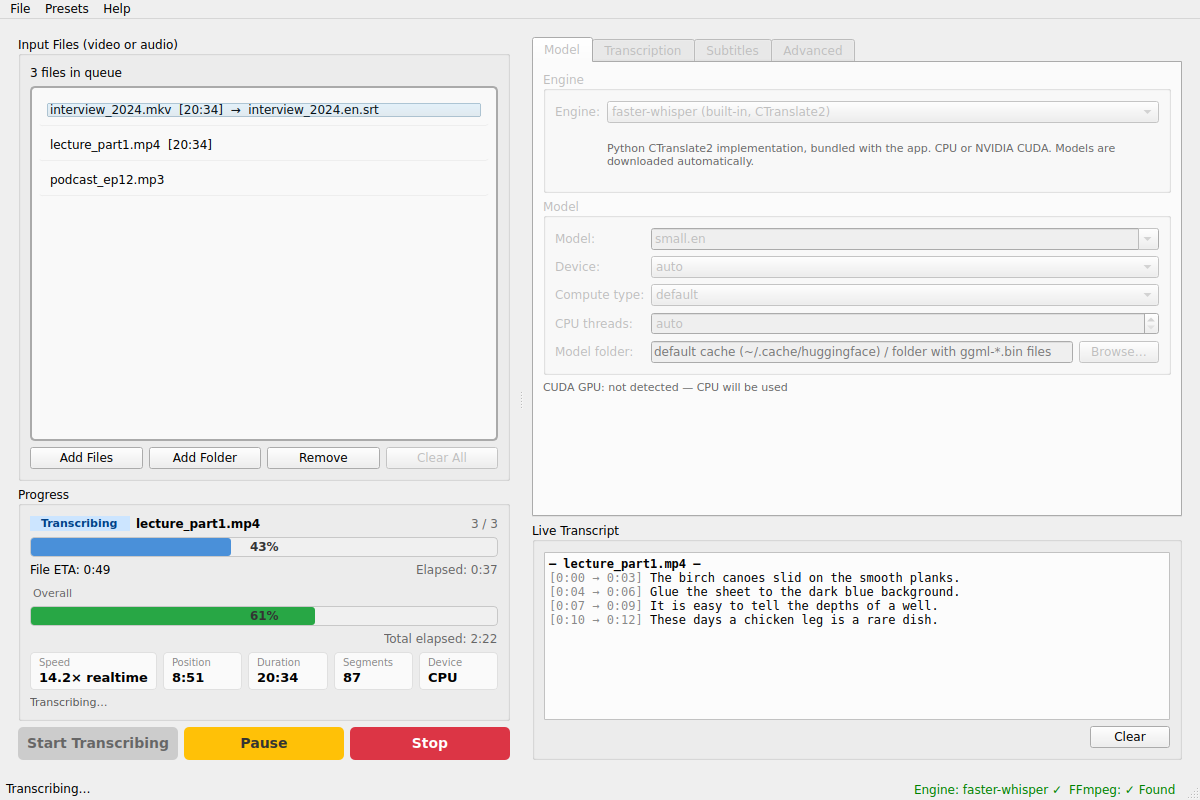
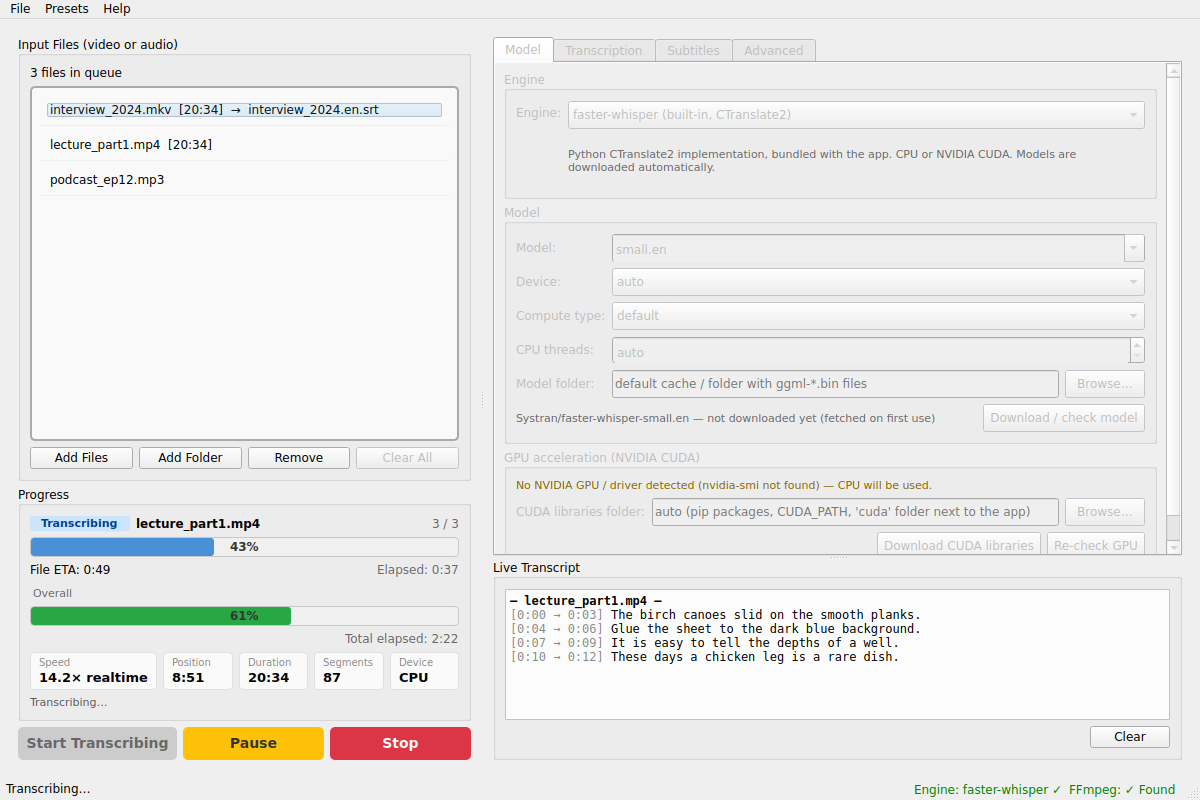
1.2: layout fits small / scaled screens — min window 820x560, scrollable tabs, fields shrink with the window, draggable transcript pane

diff --git a/modules/ui_manager.py b/modules/ui_manager.py
@@ -9,7 +9,7 @@ from PySide6.QtWidgets import (QWidget, QVBoxLayout, QHBoxLayout, QLabel, QCheck
                                QLineEdit, QFileDialog, QGroupBox, QListWidget, QProgressBar, QSplitter,
                                QListWidgetItem, QTabWidget, QSpinBox, QDoubleSpinBox, QComboBox,
                                QGridLayout, QFrame, QSizePolicy, QMessageBox, QPlainTextEdit, QTextEdit,
-                               QFormLayout)
+                               QFormLayout, QScrollArea)
 from PySide6.QtCore import Qt, Signal, QSettings
 from PySide6.QtGui import QAction, QDragEnterEvent, QDropEvent, QColor, QBrush, QDesktopServices
 from PySide6.QtCore import QUrl
@@ -153,7 +153,9 @@ class UIManager(QWidget):
         main_layout.addWidget(splitter)
         splitter.addWidget(self._create_left_panel())
         splitter.addWidget(self._create_right_panel())
-        splitter.setSizes([520, 680])
+        splitter.setStretchFactor(0, 2)
+        splitter.setStretchFactor(1, 3)
+        splitter.setSizes([480, 720])
 
     # -- left: queue + progress + buttons ----------------------------------
     def _create_left_panel(self):
@@ -288,11 +290,19 @@ class UIManager(QWidget):
         panel = QWidget()
         layout = QVBoxLayout(panel)
         self.tabs = QTabWidget()
-        self.tabs.addTab(self._create_model_tab(), "Model")
-        self.tabs.addTab(self._create_transcription_tab(), "Transcription")
-        self.tabs.addTab(self._create_subtitles_tab(), "Subtitles")
-        self.tabs.addTab(self._create_advanced_tab(), "Advanced")
-        layout.addWidget(self.tabs, 3)
+        for widget, title in ((self._create_model_tab(), "Model"),
+                              (self._create_transcription_tab(), "Transcription"),
+                              (self._create_subtitles_tab(), "Subtitles"),
+                              (self._create_advanced_tab(), "Advanced")):
+            scroll = QScrollArea()
+            scroll.setWidgetResizable(True)
+            scroll.setFrameShape(QFrame.Shape.NoFrame)
+            scroll.setHorizontalScrollBarPolicy(Qt.ScrollBarPolicy.ScrollBarAlwaysOff)
+            scroll.setWidget(widget)
+            self.tabs.addTab(scroll, title)
+        self._fix_field_sizing()
+        vsplit = QSplitter(Qt.Orientation.Vertical)
+        vsplit.addWidget(self.tabs)
 
         transcript_group = QGroupBox("Live Transcript")
         tl = QVBoxLayout()
@@ -309,8 +319,37 @@ class UIManager(QWidget):
         trow.addWidget(clear_btn)
         tl.addLayout(trow)
         transcript_group.setLayout(tl)
-        layout.addWidget(transcript_group, 2)
+        self.transcript.setMinimumHeight(60)
+        vsplit.addWidget(transcript_group)
+        vsplit.setStretchFactor(0, 3)
+        vsplit.setStretchFactor(1, 1)
+        vsplit.setSizes([520, 200])
+        layout.addWidget(vsplit)
         return panel
+
+    def _fix_field_sizing(self):
+        """Let combos / line edits shrink with the window instead of forcing the width of their longest entry,
+        and keep them comfortably tall on any DPI"""
+        for combo in self.tabs.findChildren(QComboBox):
+            combo.setSizeAdjustPolicy(QComboBox.SizeAdjustPolicy.AdjustToMinimumContentsLengthWithIcon)
+            combo.setMinimumContentsLength(8)
+            combo.setSizePolicy(QSizePolicy.Policy.Expanding, QSizePolicy.Policy.Fixed)
+            combo.setMinimumHeight(28)
+        for edit in self.tabs.findChildren(QLineEdit):
+            edit.setMinimumWidth(80)
+            edit.setMinimumHeight(28)
+        for spin in self.tabs.findChildren(QSpinBox) + self.tabs.findChildren(QDoubleSpinBox):
+            spin.setMinimumHeight(28)
+            spin.setMinimumWidth(90)
+        for grid in self.tabs.findChildren(QGridLayout):
+            grid.setColumnStretch(1, 1)
+        for label in self.tabs.findChildren(QLabel):
+            if label.wordWrap():
+                # wrapped labels must not dictate the minimum width of the panel
+                label.setSizePolicy(QSizePolicy.Policy.Ignored, QSizePolicy.Policy.Preferred)
+                label.setMinimumWidth(0)
+        for btn in self.tabs.findChildren(QPushButton):
+            btn.setMinimumHeight(28)
 
     def _browse_dir(self, line_edit: QLineEdit, title: str):
         d = QFileDialog.getExistingDirectory(self.main_window, title, line_edit.text() or os.path.expanduser("~"))
@@ -375,7 +414,7 @@ class UIManager(QWidget):
         grid.addWidget(QLabel("CPU threads:"), 3, 0)
         grid.addWidget(self.controls["cpu_threads"], 3, 1)
         self.controls["model_dir"] = QLineEdit()
-        self.controls["model_dir"].setPlaceholderText("default cache (~/.cache/huggingface) / folder with ggml-*.bin files")
+        self.controls["model_dir"].setPlaceholderText("default cache / folder with ggml-*.bin files")
         grid.addWidget(QLabel("Model folder:"), 4, 0)
         grid.addLayout(self._path_row(self.controls["model_dir"],
                                       lambda: self._browse_dir(self.controls["model_dir"], "Model folder")), 4, 1)
@@ -383,6 +422,7 @@ class UIManager(QWidget):
         dl_row = QHBoxLayout()
         self.model_cache_label = QLabel("")
         self.model_cache_label.setStyleSheet("color: #666; font-size: 11px;")
+        self.model_cache_label.setSizePolicy(QSizePolicy.Policy.Ignored, QSizePolicy.Policy.Preferred)
         self.controls["download_model"] = QPushButton("Download / check model")
         self.controls["download_model"].setToolTip("Fetch the selected faster-whisper model now instead of at the first transcription")
         self.controls["download_model"].clicked.connect(self._on_download_model)
@@ -401,7 +441,7 @@ class UIManager(QWidget):
         self.hw_label.setTextInteractionFlags(Qt.TextInteractionFlag.TextSelectableByMouse)
         gl.addWidget(self.hw_label, 0, 0, 1, 2)
         self.controls["cuda_lib_dir"] = QLineEdit()
-        self.controls["cuda_lib_dir"].setPlaceholderText("auto (pip nvidia-* packages, CUDA_PATH, 'cuda' folder next to the app)")
+        self.controls["cuda_lib_dir"].setPlaceholderText("auto (pip packages, CUDA_PATH, 'cuda' folder next to the app)")
         self.controls["cuda_lib_dir"].setToolTip("Folder containing cuBLAS 12 and cuDNN 9 libraries "
                                                  "(cublas64_12.dll, cublasLt64_12.dll, cudnn64_9.dll / libcublas.so.12, libcudnn.so.9)")
         self.controls["cuda_lib_dir"].editingFinished.connect(self._refresh_gpu_status)
@@ -412,6 +452,7 @@ class UIManager(QWidget):
         btn_row = QHBoxLayout()
         self.cuda_dl_label = QLabel("")
         self.cuda_dl_label.setStyleSheet("color: #666; font-size: 11px;")
+        self.cuda_dl_label.setSizePolicy(QSizePolicy.Policy.Ignored, QSizePolicy.Policy.Preferred)
         self.controls["download_cuda"] = QPushButton("Download CUDA libraries")
         self.controls["download_cuda"].setToolTip("Fetch cuBLAS 12 + cuDNN 9 from PyPI (official NVIDIA wheels, ~1 GB) "
                                                   "into a 'cuda' folder next to the app")
@@ -452,7 +493,7 @@ class UIManager(QWidget):
         self.controls["beam_size"].setToolTip("1 = greedy (fastest), 5 = default quality")
         grid.addWidget(QLabel("Beam size:"), 0, 0)
         grid.addWidget(self.controls["beam_size"], 0, 1)
-        self.controls["vad_filter"] = QCheckBox("VAD filter (skip silence, fewer hallucinations)")
+        self.controls["vad_filter"] = QCheckBox("VAD filter (skip silence)")
         self.controls["vad_filter"].setChecked(True)
         grid.addWidget(self.controls["vad_filter"], 1, 0, 1, 2)
         self.controls["vad_min_silence_ms"] = QSpinBox()
@@ -462,15 +503,18 @@ class UIManager(QWidget):
         self.controls["vad_min_silence_ms"].setValue(500)
         grid.addWidget(QLabel("VAD min. silence:"), 2, 0)
         grid.addWidget(self.controls["vad_min_silence_ms"], 2, 1)
-        self.controls["word_timestamps"] = QCheckBox("Word timestamps (more precise cue splitting; slower)")
+        self.controls["word_timestamps"] = QCheckBox("Word timestamps")
+        self.controls["word_timestamps"].setToolTip("Per-word timing: more precise cue splitting, a bit slower")
         grid.addWidget(self.controls["word_timestamps"], 3, 0, 1, 2)
-        self.controls["condition_on_previous_text"] = QCheckBox("Condition on previous text (better context, may loop on bad audio)")
+        self.controls["condition_on_previous_text"] = QCheckBox("Condition on previous text")
+        self.controls["condition_on_previous_text"].setToolTip("Use the previous segment as context: better consistency, "
+                                                               "but can get stuck repeating on bad audio")
         self.controls["condition_on_previous_text"].setChecked(True)
         grid.addWidget(self.controls["condition_on_previous_text"], 4, 0, 1, 2)
         dec_group.setLayout(grid)
         layout.addWidget(dec_group)
 
-        prompt_group = QGroupBox("Initial prompt (vocabulary hint: names, jargon, punctuation style)")
+        prompt_group = QGroupBox("Initial prompt (names, jargon, punctuation style)")
         pl = QVBoxLayout()
         self.controls["initial_prompt"] = QPlainTextEdit()
         self.controls["initial_prompt"].setPlaceholderText("e.g. Hello, welcome to the Videer podcast with Jan Kučera.")
@@ -537,7 +581,7 @@ class UIManager(QWidget):
         self.controls["suffix"].setPlaceholderText("optional, e.g. _whisper")
         og.addWidget(QLabel("File name suffix:"), 2, 0)
         og.addWidget(self.controls["suffix"], 2, 1)
-        self.controls["language_suffix"] = QCheckBox("Add language code to file name (video.en.srt — players auto-detect it)")
+        self.controls["language_suffix"] = QCheckBox("Language code in file name (video.en.srt)")
         self.controls["language_suffix"].setChecked(True)
         og.addWidget(self.controls["language_suffix"], 3, 0, 1, 2)
         self.controls["overwrite"] = QCheckBox("Overwrite existing subtitle files")
@@ -545,9 +589,9 @@ class UIManager(QWidget):
         out_group.setLayout(og)
         layout.addWidget(out_group)
 
-        mux_group = QGroupBox("Embed into video (FFmpeg, stream copy — no re-encode)")
+        mux_group = QGroupBox("Embed into video (stream copy, no re-encode)")
         ml = QHBoxLayout()
-        self.controls["mux_subtitles"] = QCheckBox("Also write a copy of the video with a soft subtitle track")
+        self.controls["mux_subtitles"] = QCheckBox("Write a copy of the video with a soft subtitle track")
         ml.addWidget(self.controls["mux_subtitles"])
         self.controls["mux_container"] = QComboBox()
         self.controls["mux_container"].addItems(list(MUX_CONTAINERS.keys()))
@@ -565,7 +609,7 @@ class UIManager(QWidget):
         cpp_group = QGroupBox("whisper.cpp")
         grid = QGridLayout()
         self.controls["whisper_cli_path"] = QLineEdit()
-        self.controls["whisper_cli_path"].setPlaceholderText("auto (whisper-cli in PATH or next to the app)")
+        self.controls["whisper_cli_path"].setPlaceholderText("auto (PATH or next to the app)")
         grid.addWidget(QLabel("whisper-cli executable:"), 0, 0)
         grid.addLayout(self._path_row(self.controls["whisper_cli_path"],
                                       lambda: self._browse_file(self.controls["whisper_cli_path"], "whisper-cli executable")), 0, 1)
@@ -583,8 +627,8 @@ class UIManager(QWidget):
             "• whisper.cpp needs GGML models (ggml-small.en.bin …) from "
             "<a href='https://huggingface.co/ggerganov/whisper.cpp/tree/main'>huggingface.co/ggerganov/whisper.cpp</a>.<br>"
             "• Audio is extracted with FFmpeg to 16 kHz mono WAV in a temp folder and deleted afterwards.<br>"
-            "• CUDA with faster-whisper needs the CUDA 12 + cuDNN 9 runtime libraries "
-            "(pip install nvidia-cublas-cu12 nvidia-cudnn-cu12).")
+            "• GPU: use <i>Model → Download CUDA libraries</i> once (cuBLAS 12 + cuDNN 9, ~1 GB), "
+            "or pip install nvidia-cublas-cu12 nvidia-cudnn-cu12.")
         info.setWordWrap(True)
         info.setOpenExternalLinks(True)
         info.setStyleSheet("color: #555;")

diff --git a/config.py b/config.py
@@ -3,9 +3,9 @@ whisperer - configuration and constants
 """
 
 APP_NAME = "whisperer"
-APP_VERSION = "1.1"
-WINDOW_MIN_WIDTH = 1100
-WINDOW_MIN_HEIGHT = 720
+APP_VERSION = "1.2"
+WINDOW_MIN_WIDTH = 820
+WINDOW_MIN_HEIGHT = 560
 
 # Input files the queue will accept (video + audio)
 MEDIA_EXTENSIONS = [
